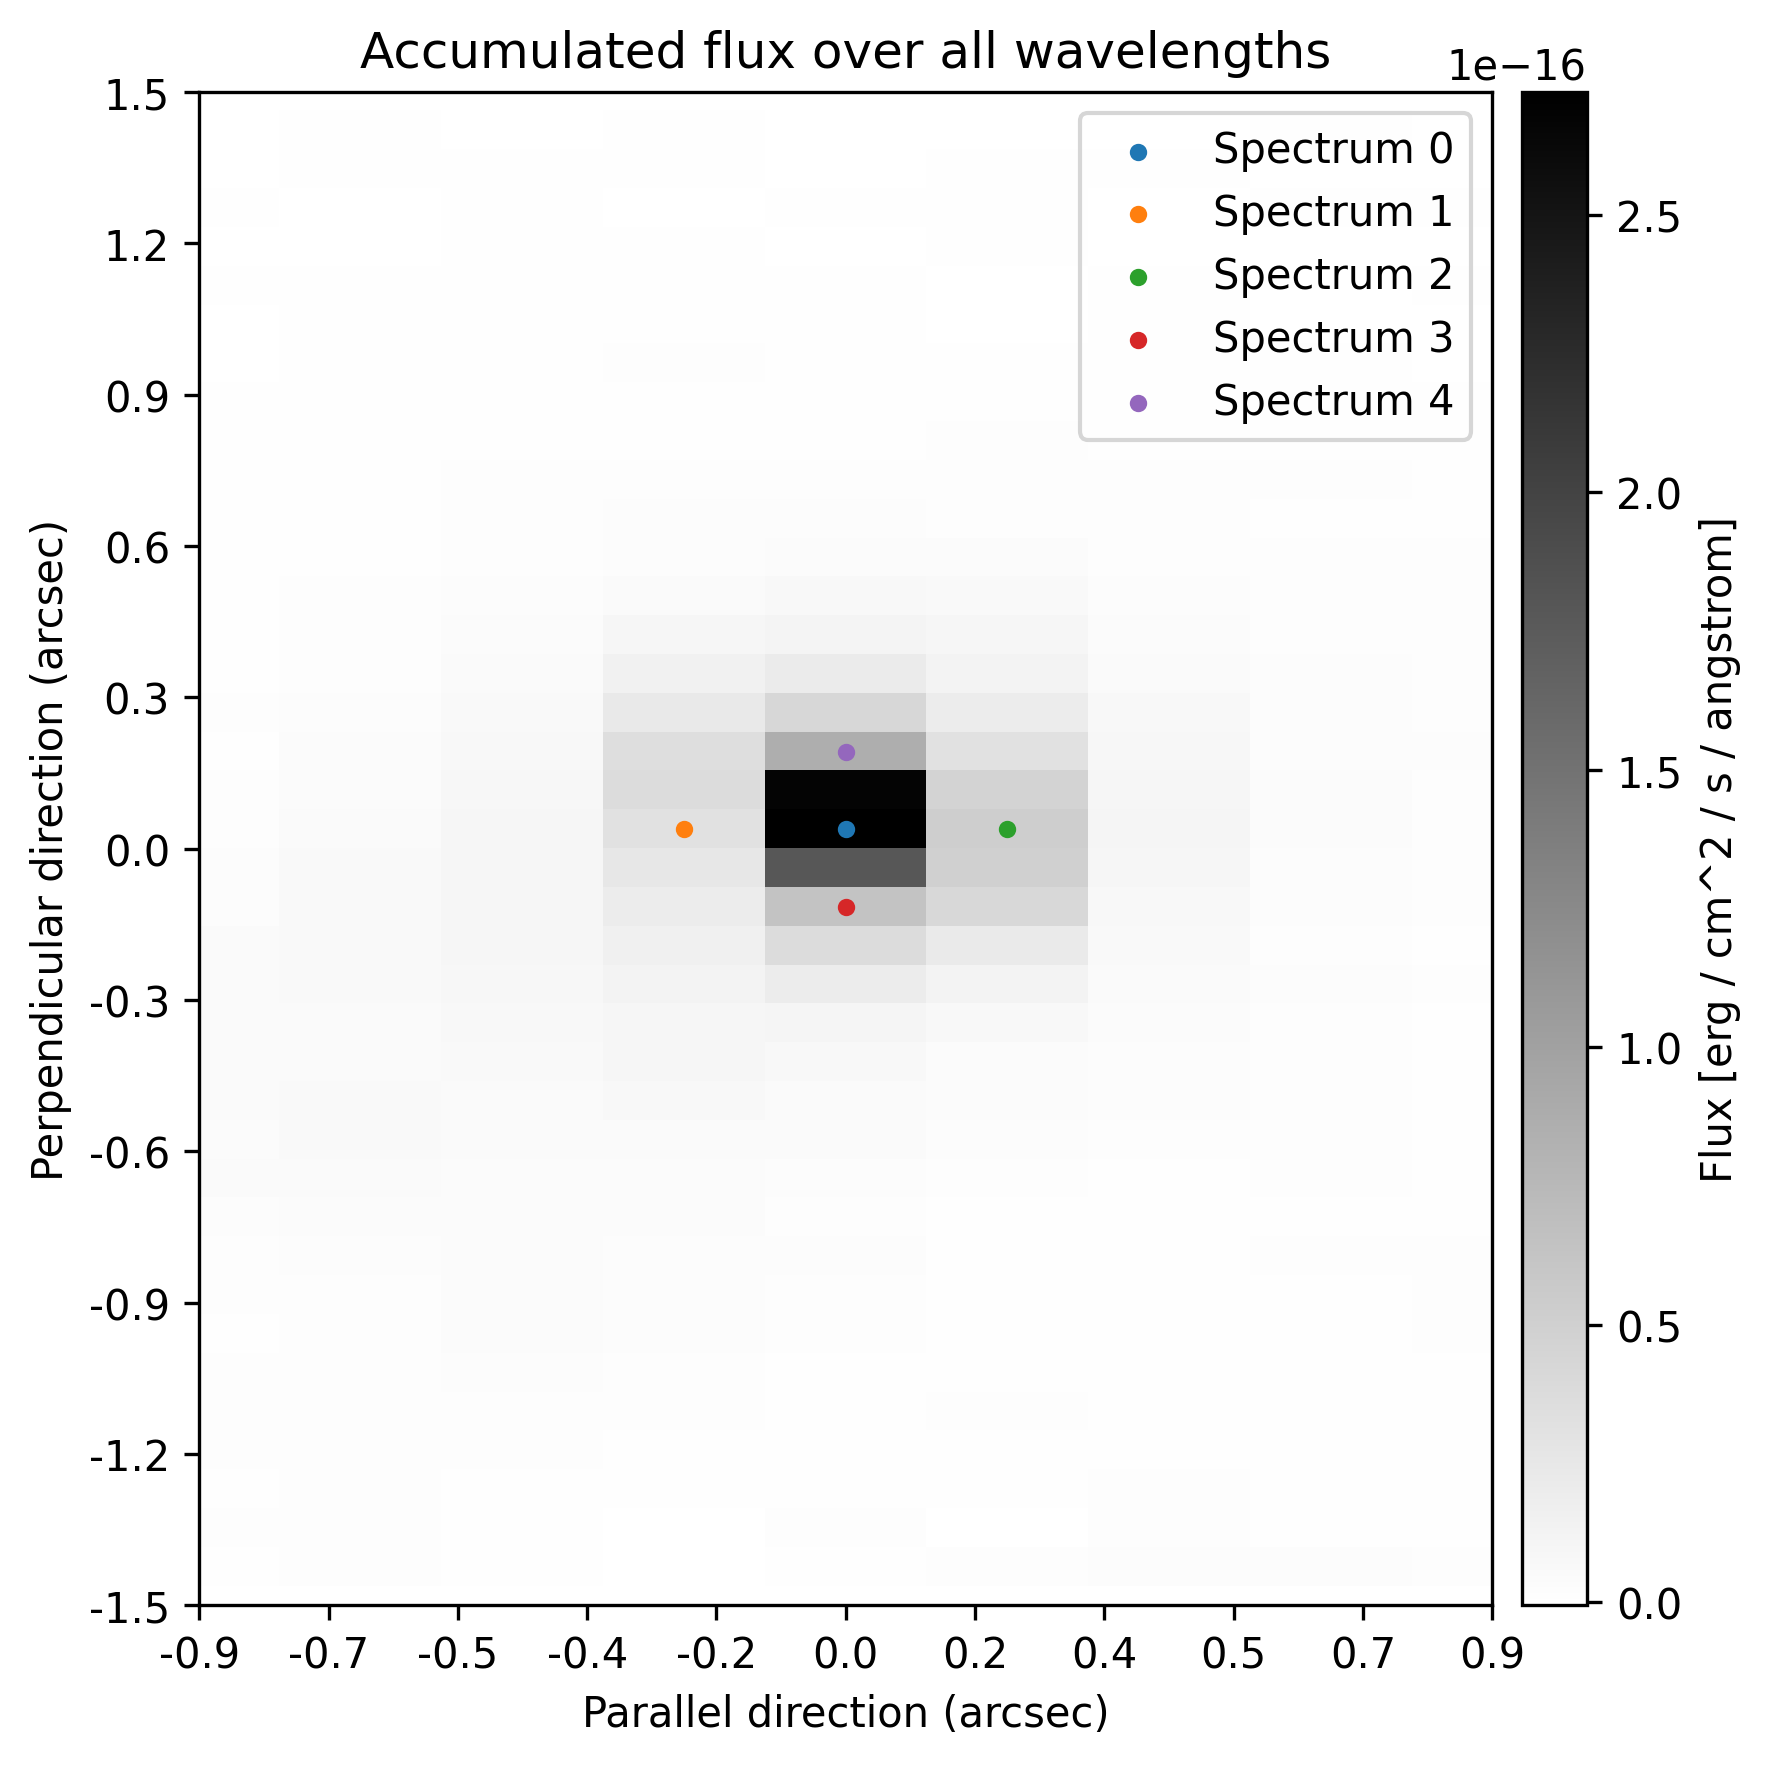
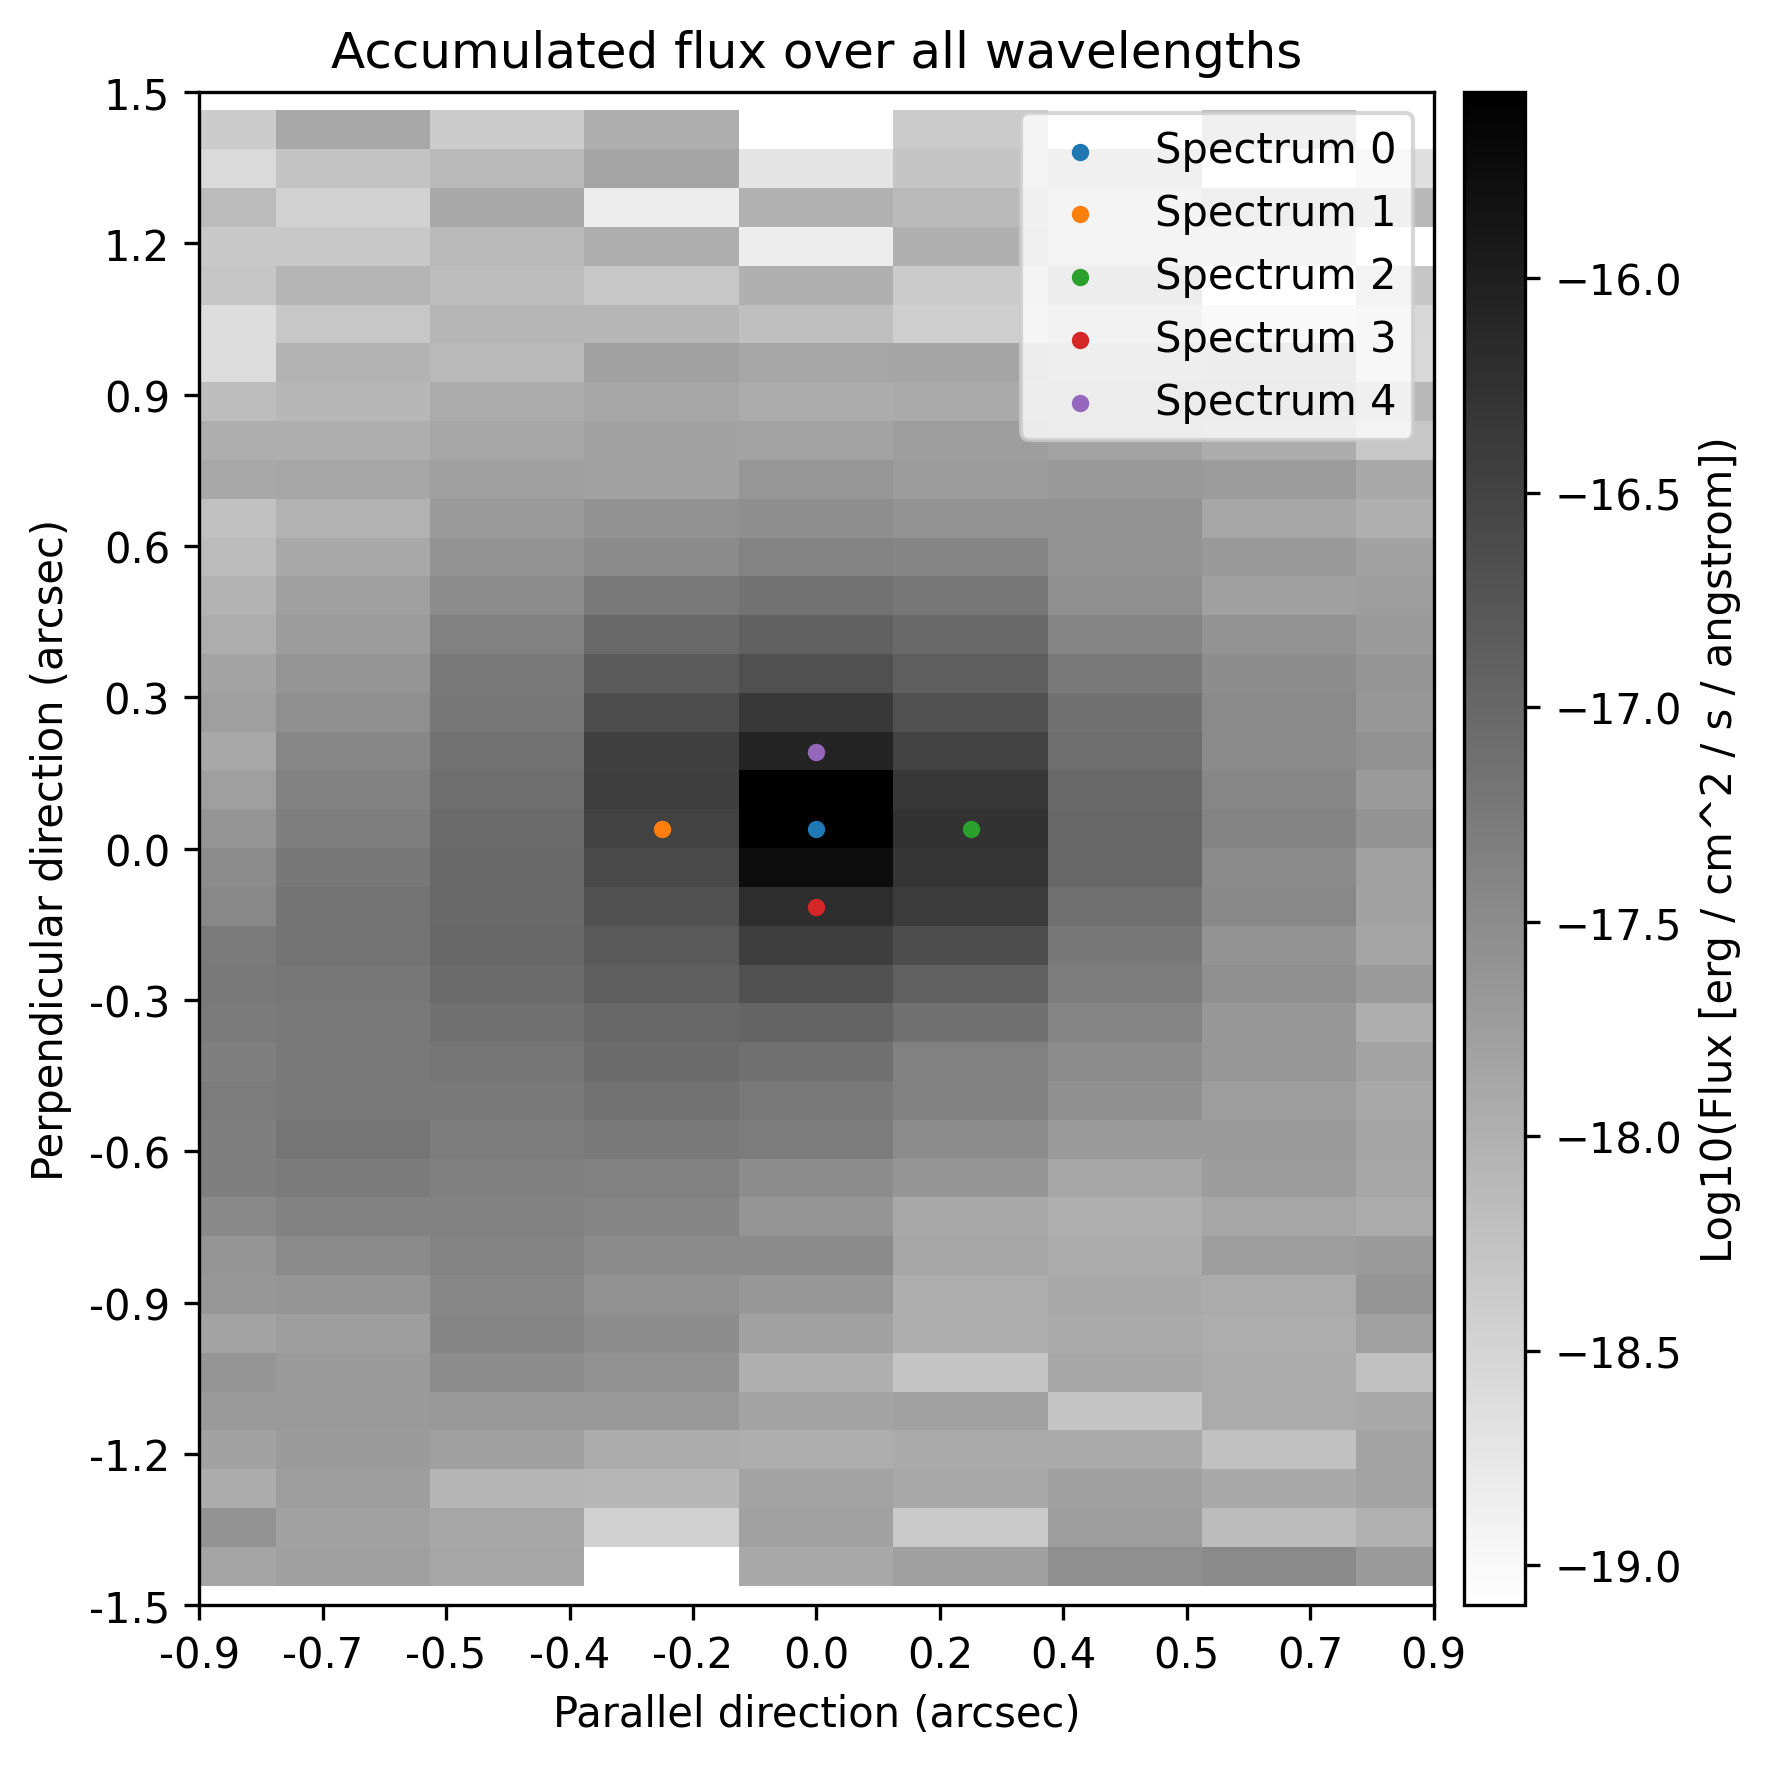
modify _display_observation in postprocess.py

diff --git a/galaxyGeniusMSA/postprocess.py b/galaxyGeniusMSA/postprocess.py
@@ -20,6 +20,7 @@ from itertools import product
 import time
 from typing import Union
 import rocket_fft
+import warnings
 
 from .utils import read_config, galaxygenius_data_dir, setup_logging
 from .utils import get_wave_for_emission_line, read_json
@@ -1336,6 +1337,10 @@ class PostProcess:
         display_array = np.sum(
             dataTensor[:, :, 1], axis=2)
         
+        with warnings.catch_warnings():
+            warnings.filterwarnings('ignore', category=RuntimeWarning)
+            display_array = np.log10(display_array)
+        
         unit_type = self.config['unit']
         unit_comment_dict = {
             'electron': 'electrons',
@@ -1362,7 +1367,7 @@ class PostProcess:
         ax.set_aspect('auto')
         divider = make_axes_locatable(ax)
         cax = divider.append_axes('right', size='5%', pad=0.1)
-        fig.colorbar(im, cax=cax, label=f'Flux [{unit_comment_dict[unit_type]}]')
+        fig.colorbar(im, cax=cax, label=f'Log10(Flux [{unit_comment_dict[unit_type]}])')
         
         # Set ticks and labels in arcsec
         ax.set_xticks(np.linspace(0, nx - 1, num=11))
